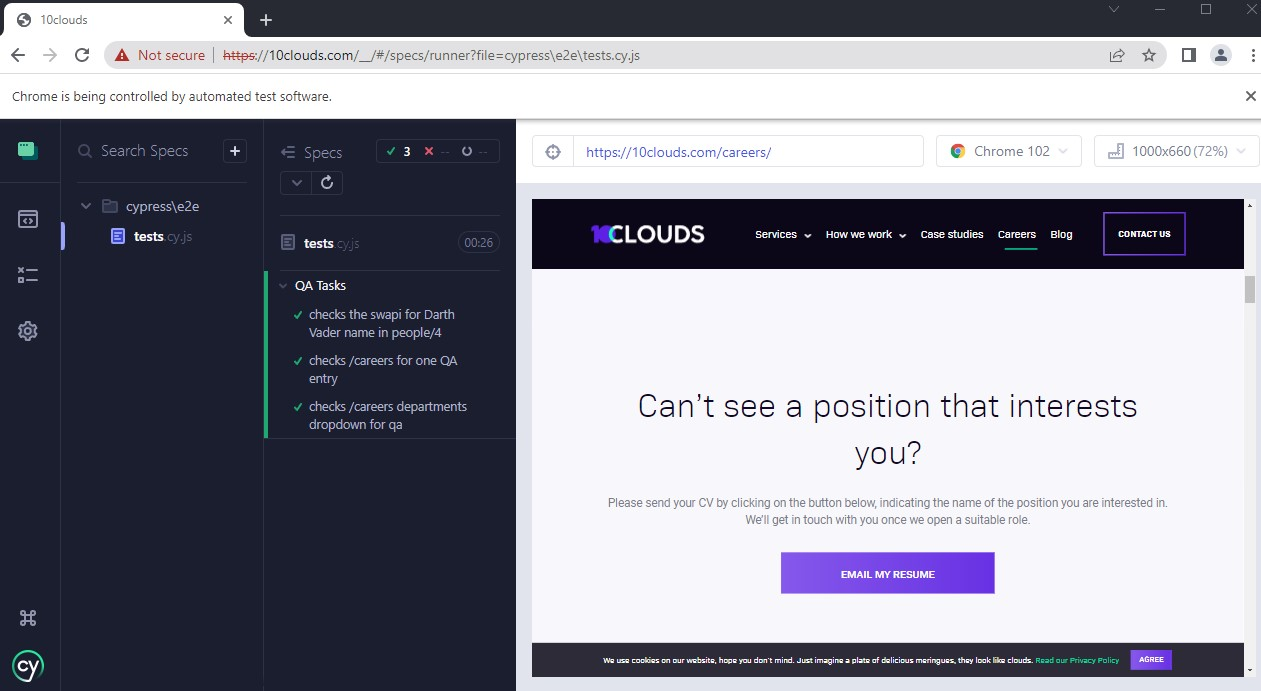
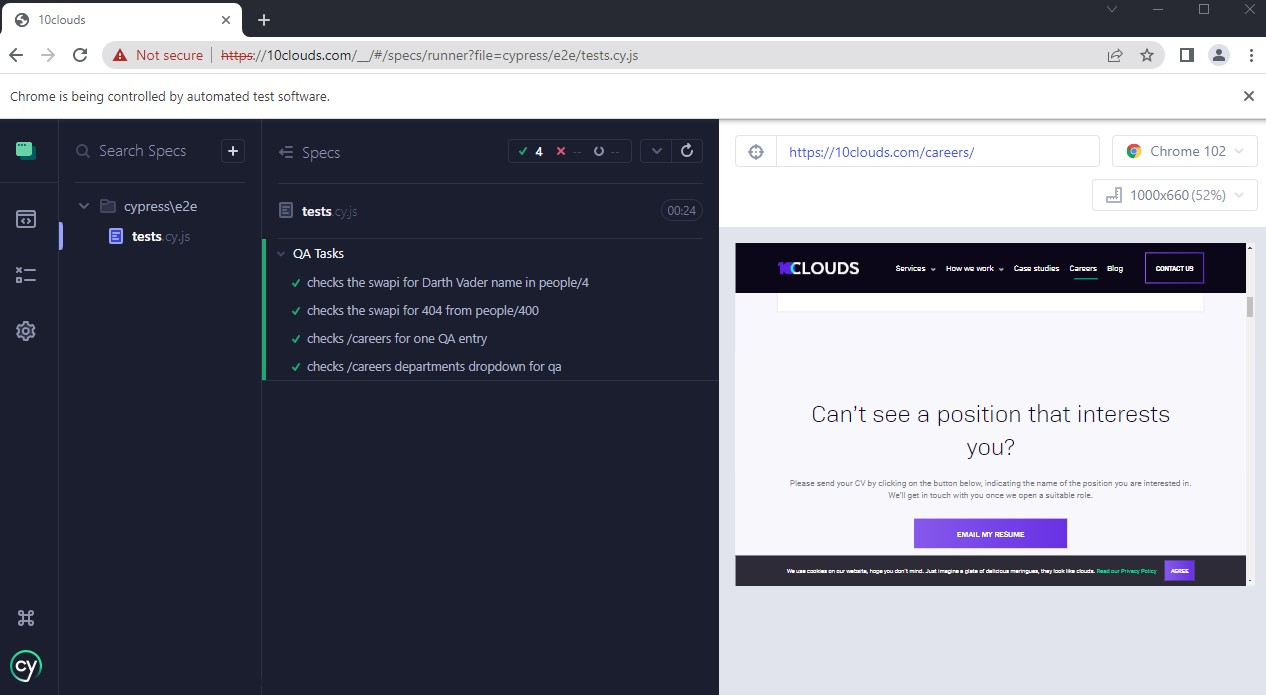
adjustments

diff --git a/cypress/e2e/tests.cy.js b/cypress/e2e/tests.cy.js
@@ -2,9 +2,20 @@ import { mainPage } from "../locators/mainPage.js"
 
 describe('QA Tasks', () => {
   it('checks the swapi for Darth Vader name in people/4', () => {
-    cy.request('GET', 'https://swapi.dev/api/people/4/').then(
+    cy.request('GET', 'https://swapi.dev/api/people/4/',).then(
       (response) => {
         expect(response.body).to.have.property('name', 'Darth Vader');
+      }
+    )
+  });
+
+  it('checks the swapi for 404 from people/400', () => {
+    cy.request(
+      { 
+        url: 'https://swapi.dev/api/people/400/',
+        failOnStatusCode: false,}).then(
+      (response) => {
+        expect(response.status).to.eq(404);
       }
     )
   });
@@ -25,7 +36,9 @@ describe('QA Tasks', () => {
     cy.url().should('eq', 'https://10clouds.com/careers/');
     cy.get(mainPage.careersPageHeader).scrollIntoView();
     cy.get(mainPage.jobDepartmentDDbtns).contains('All departments').scrollIntoView();
+    cy.wait(2000);  //Time waits are not optimal in Cypress but otherwise the elements get detached from DOM, not enough time to investigate
     cy.get(mainPage.jobDepartmentDDbtns).contains('All departments').should('be.visible').click({ force: true });
+    cy.wait(2000); // Same as above
     cy.get(mainPage.jobDepartmentDDselect).contains('QA').should('be.visible').click();
     cy.get(mainPage.jobTitle).each((item) => {
       cy.wrap(item).as('text');
